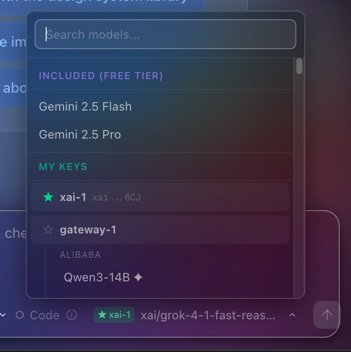
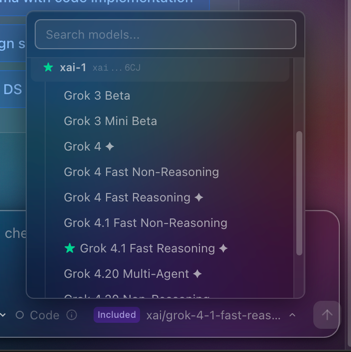
fix: don't set selectedSource before native catalogs are loaded (prevents flash)

diff --git a/packages/web/src/app/page.tsx b/packages/web/src/app/page.tsx
@@ -1558,7 +1558,8 @@ export default function Home() {
       const userUsageSource = settingsData.usageSource === "byok" ? "byok" : "included";
       setByokKeys(keys);
       setGatewayModels(models);
-      setSelectedSource(userUsageSource);
+      // Don't set selectedSource yet — wait for native catalogs to load first
+      // (selectedSource triggers modelReady which shows the selector)
 
       // Fetch native model catalogs for all direct-provider keys in parallel
       const directKeys = keys.filter((k) => k.provider !== "gateway");
